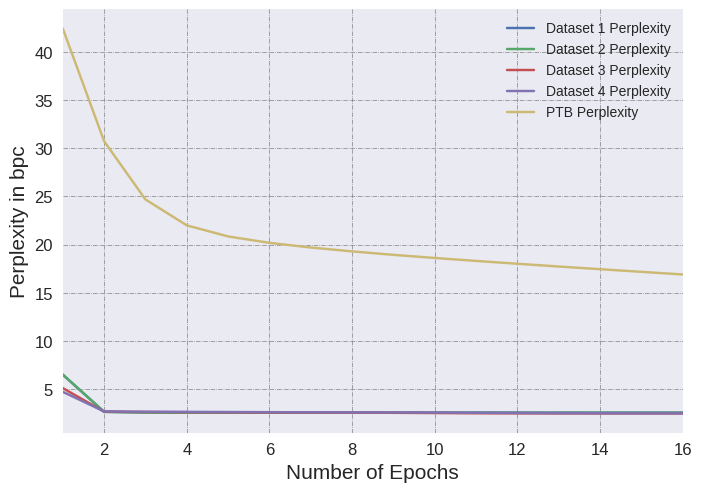
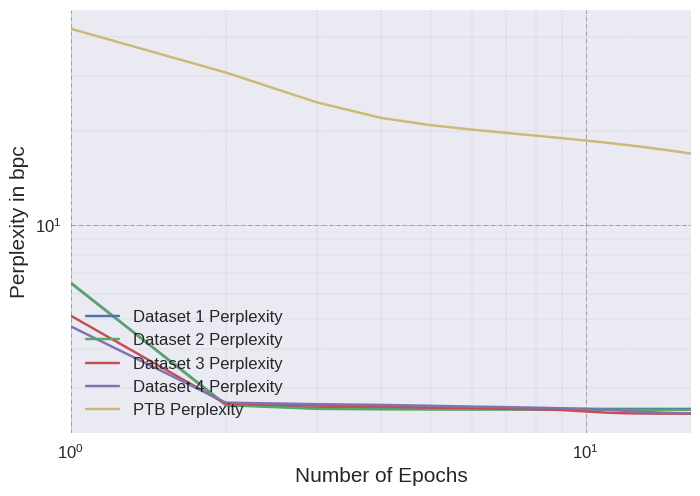
Up

diff --git a/ORNN_log/ORNN_plot_data.py b/ORNN_log/ORNN_plot_data.py
@@ -12,11 +12,11 @@ y5 = np.array([42.4321422241,30.7374137611,24.6913149474,22.003735207,20.8540602
 
 # red dashes, blue squares and green triangles
 with plt.style.context(('seaborn')):
-    plt.plot(np.arange(1,len(y1)+1), y1, label='Dataset 1 Perplexity')
-    plt.plot(np.arange(1,len(y2)+1), y2, label='Dataset 2 Perplexity')
-    plt.plot(np.arange(1,len(y3)+1), y3, label='Dataset 3 Perplexity')
-    plt.plot(np.arange(1,len(y4)+1), y4, label='Dataset 4 Perplexity')
-    plt.plot(np.arange(1,len(y5)+1), y5, label='PTB Perplexity')
+    plt.loglog(np.arange(1,len(y1)+1), y1, label='Dataset 1 Perplexity')
+    plt.loglog(np.arange(1,len(y2)+1), y2, label='Dataset 2 Perplexity')
+    plt.loglog(np.arange(1,len(y3)+1), y3, label='Dataset 3 Perplexity')
+    plt.loglog(np.arange(1,len(y4)+1), y4, label='Dataset 4 Perplexity')
+    plt.loglog(np.arange(1,len(y5)+1), y5, label='PTB Perplexity')
 
     plt.tick_params(labelsize='large', width=5)
     plt.grid(True)
@@ -26,6 +26,6 @@ with plt.style.context(('seaborn')):
     ax.set_xlim(1, len(y1))
     ax.set_xlabel('Number of Epochs', fontsize=15)
     ax.set_ylabel('Perplexity in bpc', fontsize=15)
-    lgd = ax.legend(loc='upper right', shadow=True, fancybox=True, ncol=1, numpoints=1) 
+    lgd = ax.legend(loc='lower left', shadow=True, fancybox=True, ncol=1, numpoints=1, prop={'size': 12})
     plt.savefig('ornn_perplexity', bbox_extra_artists=(lgd,), bbox_inches='tight')
     plt.show()
